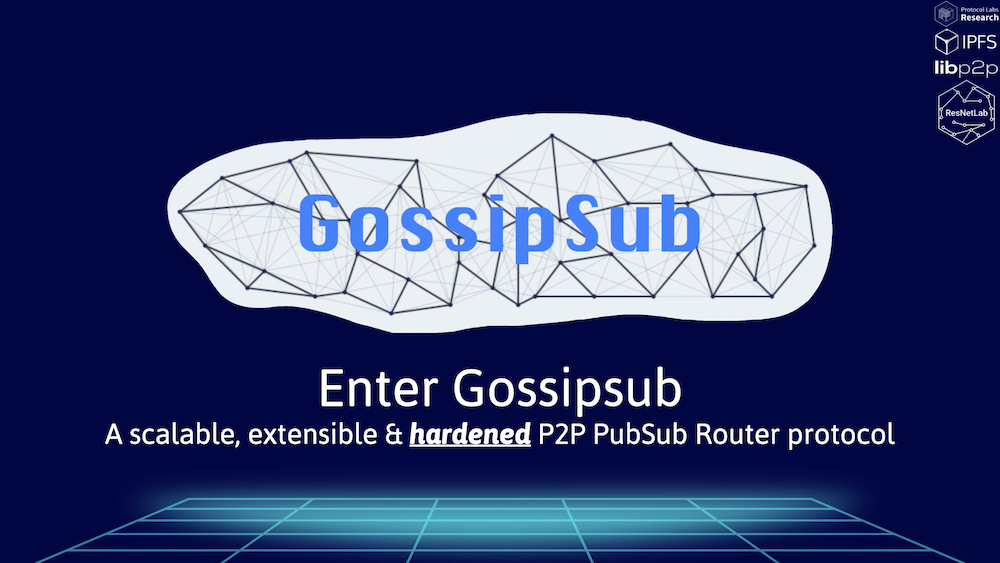
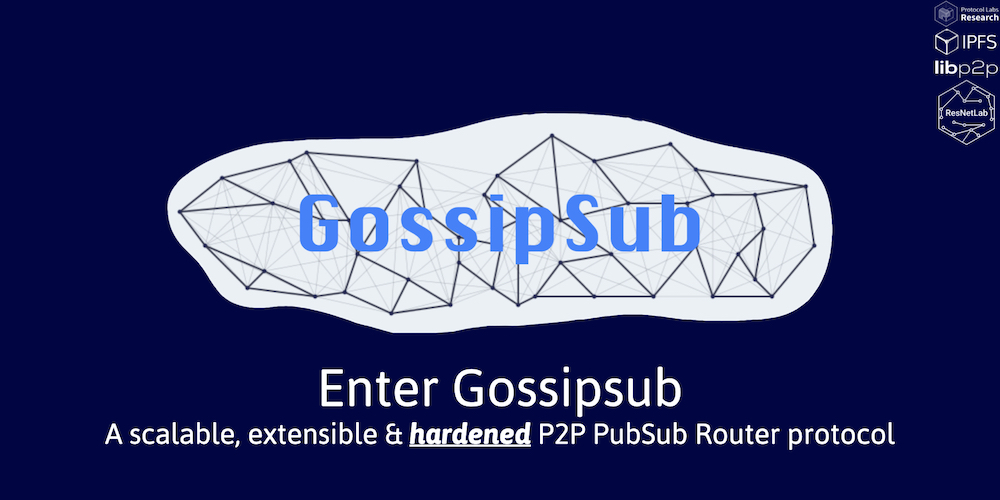
fix header image and title

Changed region(s): [[0.062, 0.18, 0.961, 1.0], [0.93, 0.0, 1.0, 0.3], [0.031, 0.99, 0.062, 1.0]]

diff --git a/content/post/094-gossipsub-v1.1.md b/content/post/094-gossipsub-v1.1.md
@@ -1,14 +1,14 @@
 ---
 date: 2020-05-19
 url: 2020-05-19-gossipsub-v1.1
-title: Gossipsub v1.1 brings new hardening extensions to libp2p PubSub 
+title: Gossipsub v1.1 brings hardening extensions to PubSub 
 author: David Dias
 header_image: 094-gossipsub-v1.1-headerimage.jpeg
 tags: ipfs, libp2p, pubsub, gossipsub
 ---
 
 <p align="center">
-  <img width="60%" src="/header_images/094-gossipsub-v1.1-headerimage.jpeg">
+  <img width="60%" src="/header_images/094-gossipsub-v1.1-headerimage+grid.jpeg">
 </p>
 
 The gossip you’ve heard on the streets is correct, Gossipsub v1.1 is here and it packs several security hardening extensions - along with new testing, documentation, and an updated specification.
